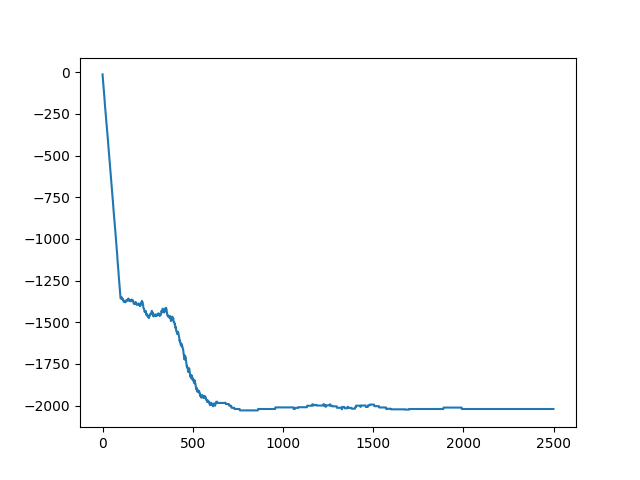
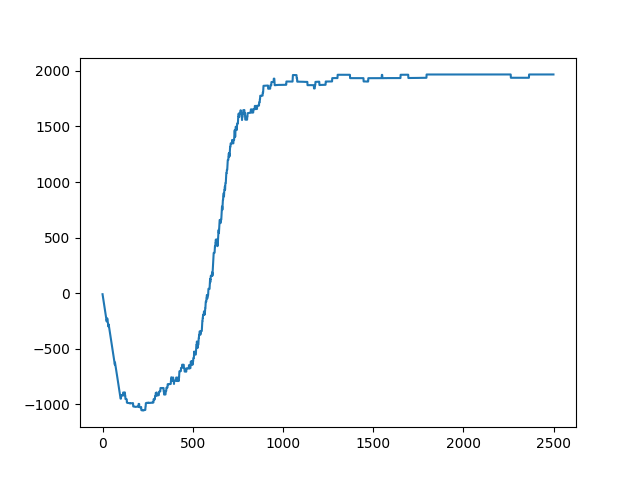
Parameters issue
Parameters issue fixed

diff --git a/RL/REINFORCE/FrozenLake-v1.py b/RL/REINFORCE/FrozenLake-v1.py
@@ -19,7 +19,7 @@ class Agent:
 
     def run(self, render, episodes, slippery):
         # Create environment
-        original_env = gym.make('FrozenLake-v1', map_name="8x8", render_mode=render, is_slippery=None, max_episode_steps=200)
+        original_env = gym.make('FrozenLake-v1', map_name="4x4", render_mode=render, is_slippery=None, max_episode_steps=200)
         env = CustomEnvWrapper(original_env, slippery=slippery)
 
         num_states = env.observation_space.n  # observation space, for 4x4 map, 16 states(0-15), for 8x8 map, 64 states(0-63)
